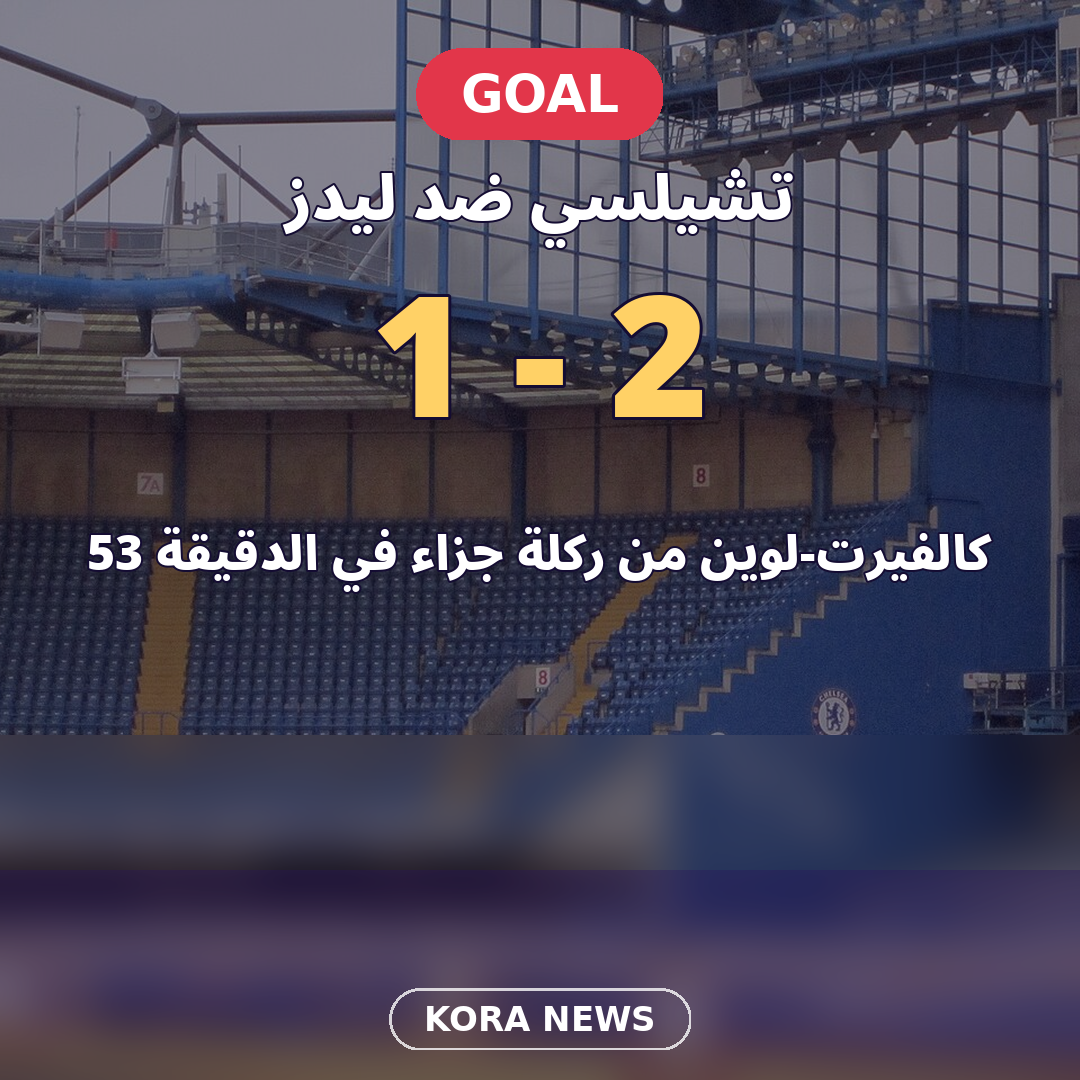
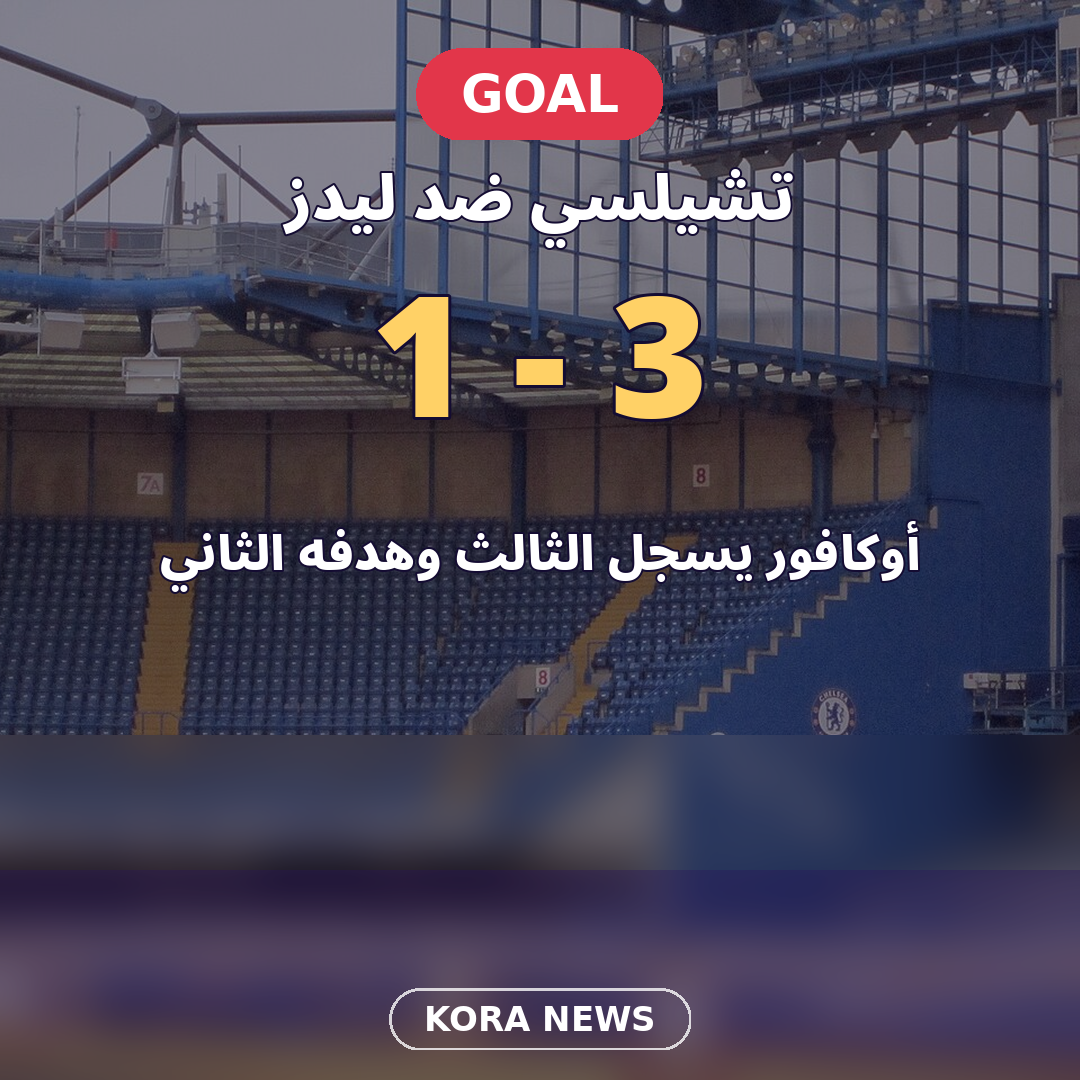
Update Chelsea Leeds live to 1-3 with Okafor brace

Changed region(s): [[0.0611, 0.4889, 0.9167, 0.55], [0.55, 0.275, 0.6722, 0.3972]]

diff --git a/posts/2026-11-21-chelsea-leeds-live.md b/posts/2026-11-21-chelsea-leeds-live.md
@@ -1,20 +1,22 @@
 ---
-title: مباشر تشيلسي وليدز: كالفيرت لوين يمنح الضيوف التقدم2-1
+title: مباشر تشيلسي وليدز: ثنائية أوكافور ترفع تقدم الضيوف إلى3-1
 slug: chelsea-leeds-live
-date: 2026-11-21T18:18:00+02:00
+date: 2026-11-21T18:25:00+02:00
 category: الدوري الإنجليزي
-excerpt: كالفيرت لوين يسجل من ركلة جزاء في الدقيقة53، وليدز يتقدم2-1 على تشيلسي وفق التحقق18:18 القاهرة. ليست نتيجة نهائية.
+excerpt: نواه أوكافور يسجل هدفه الثاني والثالث لليدز، ليتقدم الضيوف3-1 على تشيلسي في الشوط الثاني عند التحقق18:25 القاهرة. ليست نتيجة نهائية.
 image: chelsea-leeds-live.webp
 ---
 
-## تحديث18:18 بتوقيت القاهرة
+## تحديث18:25 بتوقيت القاهرة
 
-منح دومينيك كالفيرت لوين ليدز التقدم أمام تشيلسي بتسجيل ركلة جزاء في الدقيقة53، لتصبح النتيجة2-1 للضيوف في ستامفورد بريدج.
+سجل نواه أوكافور هدفه الشخصي الثاني والثالث لفريق ليدز، ليرفع تقدم الضيوف أمام تشيلسي إلى3-1 في الشوط الثاني بملعب ستامفورد بريدج.
 
-وكان إيمانويل إيميغا قد افتتح التسجيل لتشيلسي في الدقيقة24، قبل تعادل نواه أوكافور لليدز في الدقيقة27.
+وكان دومينيك كالفيرت لوين قد منح ليدز التقدم2-1 من ركلة جزاء في الدقيقة53، بعد هدف إيمانويل إيميغا لتشيلسي ورد أوكافور الأول.
 
-النتيجة تشير إلى تقدم ليدز2-1 عند التحقق في18:18 بتوقيت القاهرة يوم21 نوفمبر2026. المباراة في الشوط الثاني، وهذه ليست نتيجة نهائية.
+النتيجة تشير إلى تقدم ليدز3-1 عند التحقق في18:25 بتوقيت القاهرة يوم21 نوفمبر2026. المباراة مستمرة، وهذه ليست نتيجة نهائية.
 
-المصادر: [أحداث وتعليق BBC المباشر](https://www.bbc.com/sport/football/live/c3dx19jxx15zt)، و[تغطية FotMob](https://www.fotmob.com/matches/chelsea-vs-leeds-united/2d7oy4).
+أكدت أحداث BBC وتعليقها المباشر الهدف الثالث واسم مسجله، لكنهما عرضا توقيتين مختلفين له، لذلك لا ننشر دقيقة الهدف حتى تتضح.
+
+المصادر: [أحداث وتعليق BBC المباشر](https://www.bbc.com/sport/football/live/c3dx19jxx15zt)، و[تغطية FotMob](https://www.fotmob.com/matches/chelsea-vs-leeds-united/2d7oy4) لتاريخ أحداث المباراة السابق.
 
 الصورة أرشيفية لملعب ستامفورد بريدج التقطت يوم10 فبراير2013، وليست من مباراة اليوم. تصوير Ank kumar، عبر [Wikimedia Commons](https://commons.wikimedia.org/wiki/File%3AChelsea_Football_Club%2C_Stamford_Bridge_13.jpg)، بترخيص [CC BY-SA 4.0](https://creativecommons.org/licenses/by-sa/4.0/). أضيف قص وتعتيم وطمس وطبقات لونية ونصوص كورة نيوز. التصميم المعدل متاح بالترخيص نفسه CC BY-SA 4.0.
